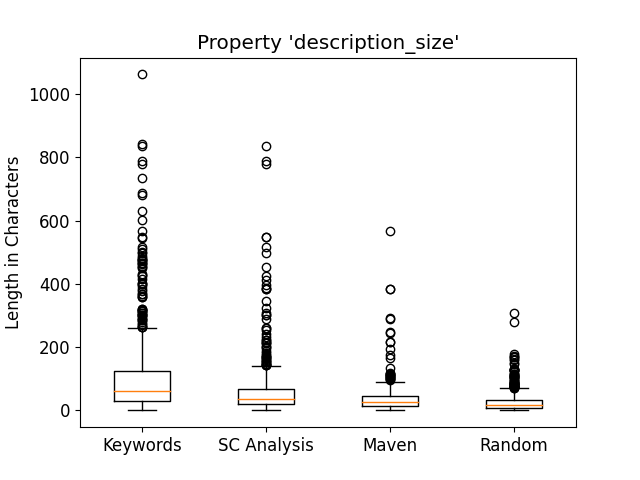
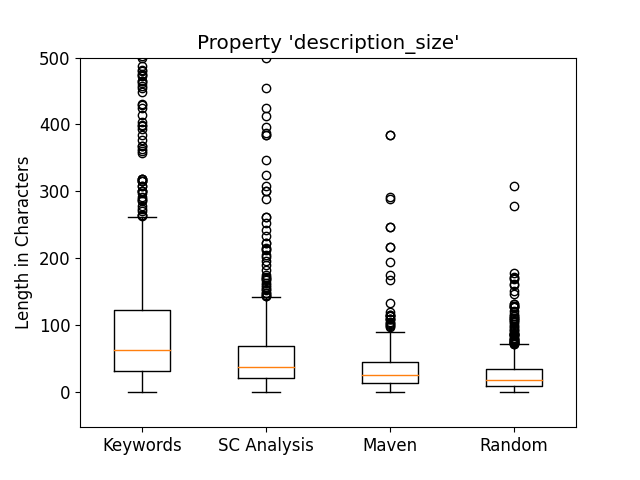
Box Plot Y axis limits

diff --git a/Statistics/script-3-intersection.py b/Statistics/script-3-intersection.py
@@ -5,7 +5,7 @@ import matplotlib.pyplot as plt
 show_figures = False
 
 from script_shared import filter_tags, count_property, colors, hatches
-from script_shared import box_scale, box_show_outliers, graph_colors, font
+from script_shared import box_scale, box_show_outliers, graph_colors, font, box_ymax
 
 
 # Gets the issue sets with saved properties, depending on the argument, which can be either AK or non-AK
@@ -176,11 +176,11 @@ def box_plot_property_distribution(issue_lists, issue_property, graph_labels, yl
         values.append([issue[issue_property] for issue in issue_list])
 
     fig, ax = plt.subplots()
-    # ax.boxplot(values, showfliers=False)
     ax.boxplot(values, showfliers=box_show_outliers)
     ax.set_yscale(box_scale)
     ax.set_ylabel(ylabel)
-    
+    plt.axis([None, None, None, box_ymax[issue_property]]) # set limits
+
     xticks = [x+1 for x in range(len(graph_labels))]
 
     plt.xticks(xticks, graph_labels)

diff --git a/Statistics/script-4-comparison.py b/Statistics/script-4-comparison.py
@@ -1,5 +1,5 @@
 from script_shared import filter_tags, count_property, colors, hatches
-from script_shared import box_scale, box_show_outliers, graph_colors, font
+from script_shared import box_scale, box_show_outliers, graph_colors, font, box_ymax
 import json
 import matplotlib.pyplot as plt
 
@@ -82,6 +82,7 @@ def box_plot_AK_vs_non_AK(property, ylabel):
     ax.boxplot(data, showfliers=box_show_outliers)
     ax.set_yscale(box_scale)
     ax.set_ylabel(ylabel)
+    plt.axis([None, None, None, box_ymax[property]]) # set limits
 
     plt.xticks([1, 2], ['AK Issues', 'Non-AK Issues'])
     plt.title(f"Property '{property}'")

diff --git a/Statistics/script_shared.py b/Statistics/script_shared.py
@@ -69,6 +69,13 @@ font = {
 
 linewidth = 3.0
 
+box_ymax = {
+    'average_comment_size': 200,
+    'comment_count': 150,
+    'description_size': 500,
+    'duration': 2500
+}
+
 # Filters a list of issues by project
 def filter_project(issues, project):
     if not project:
